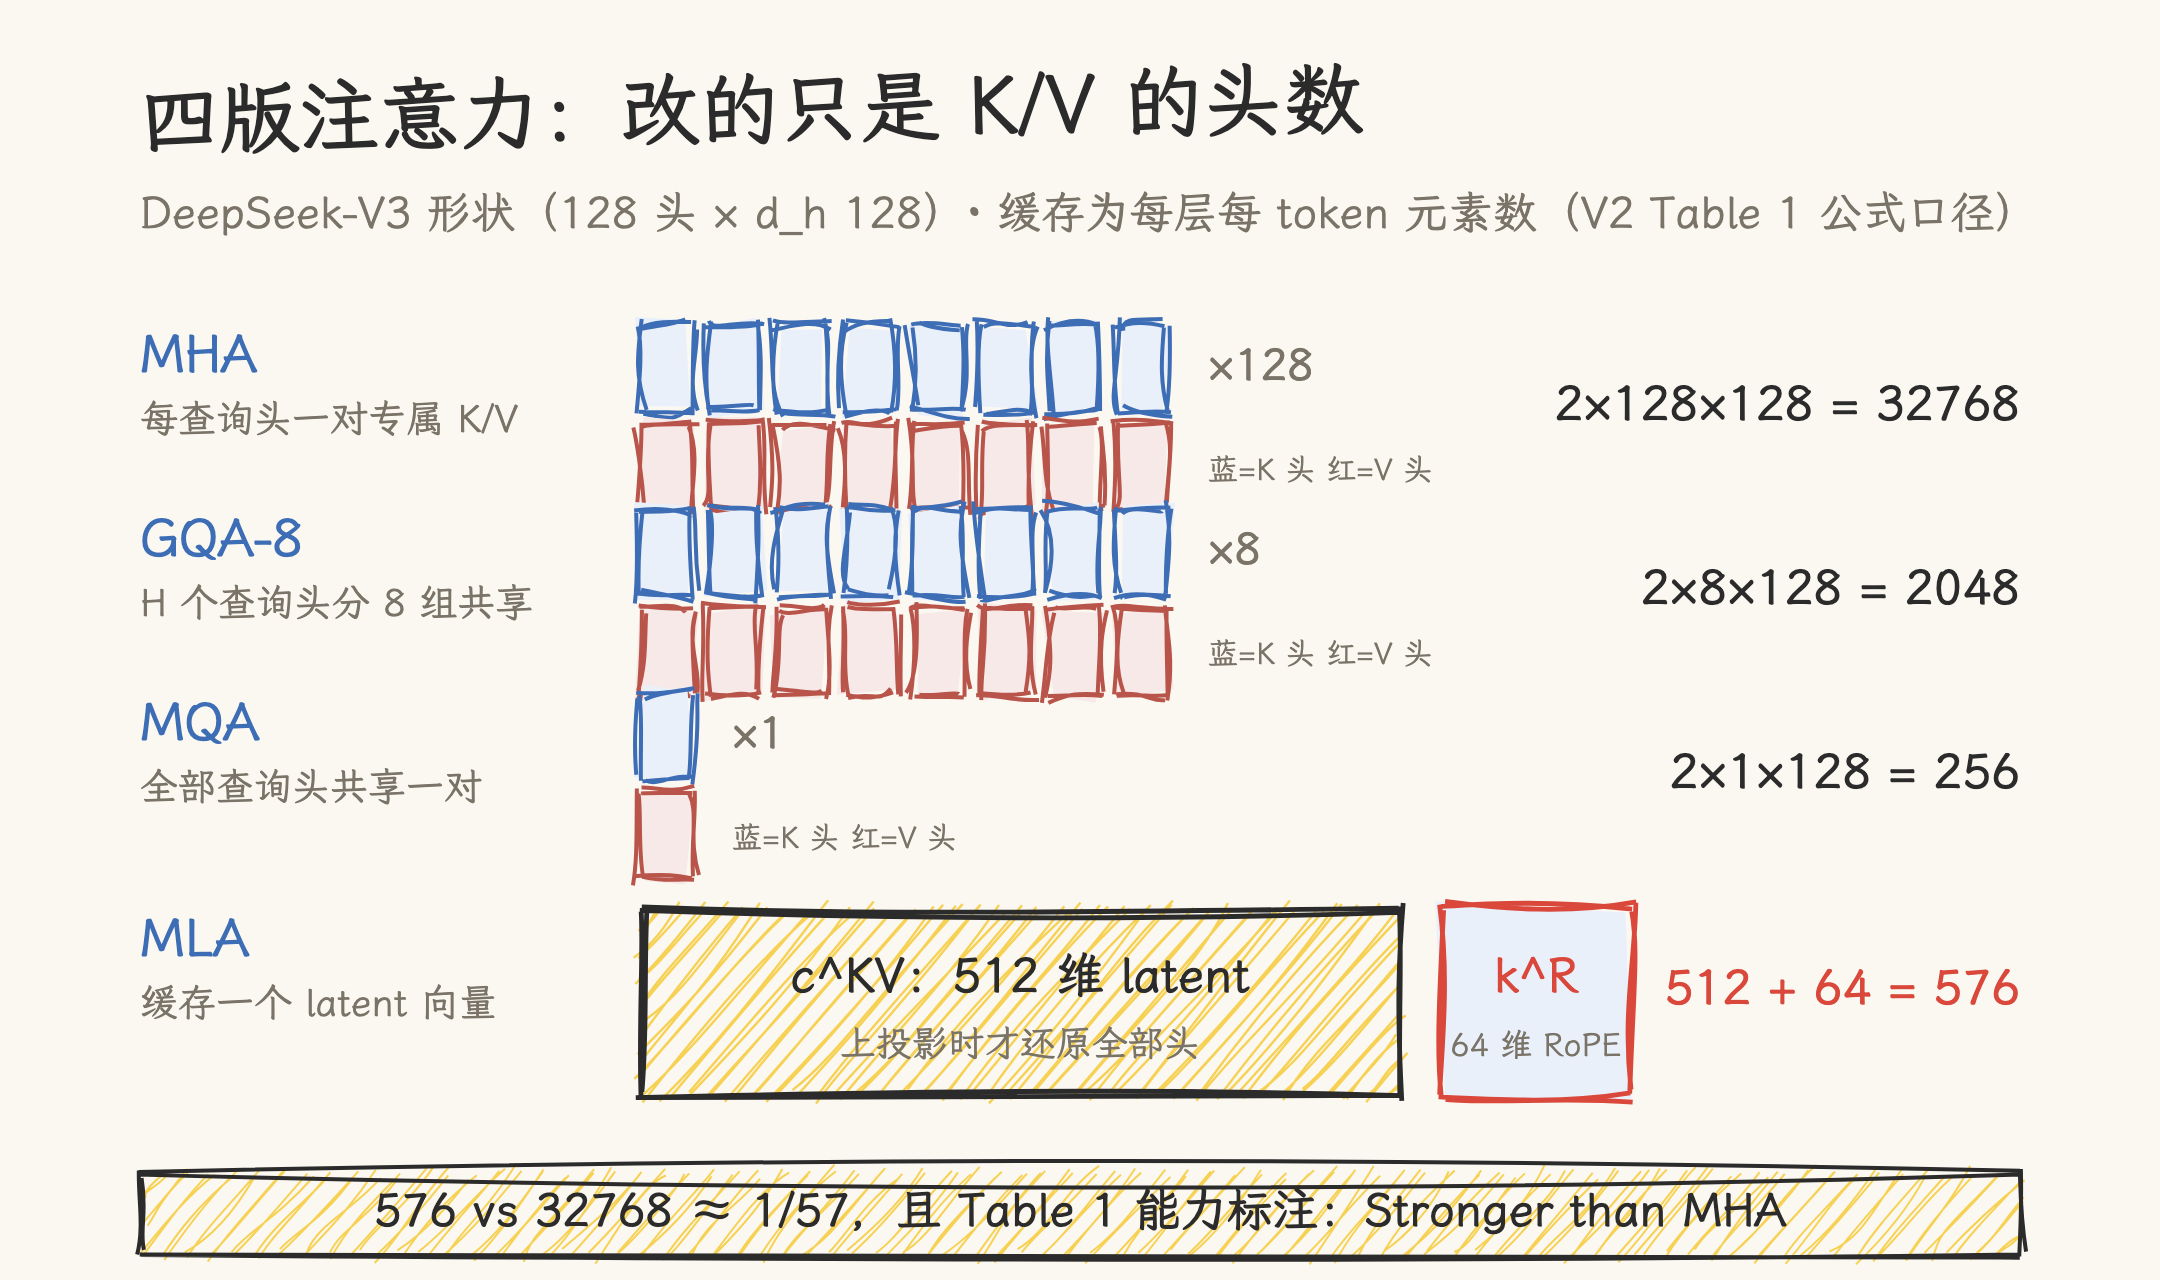
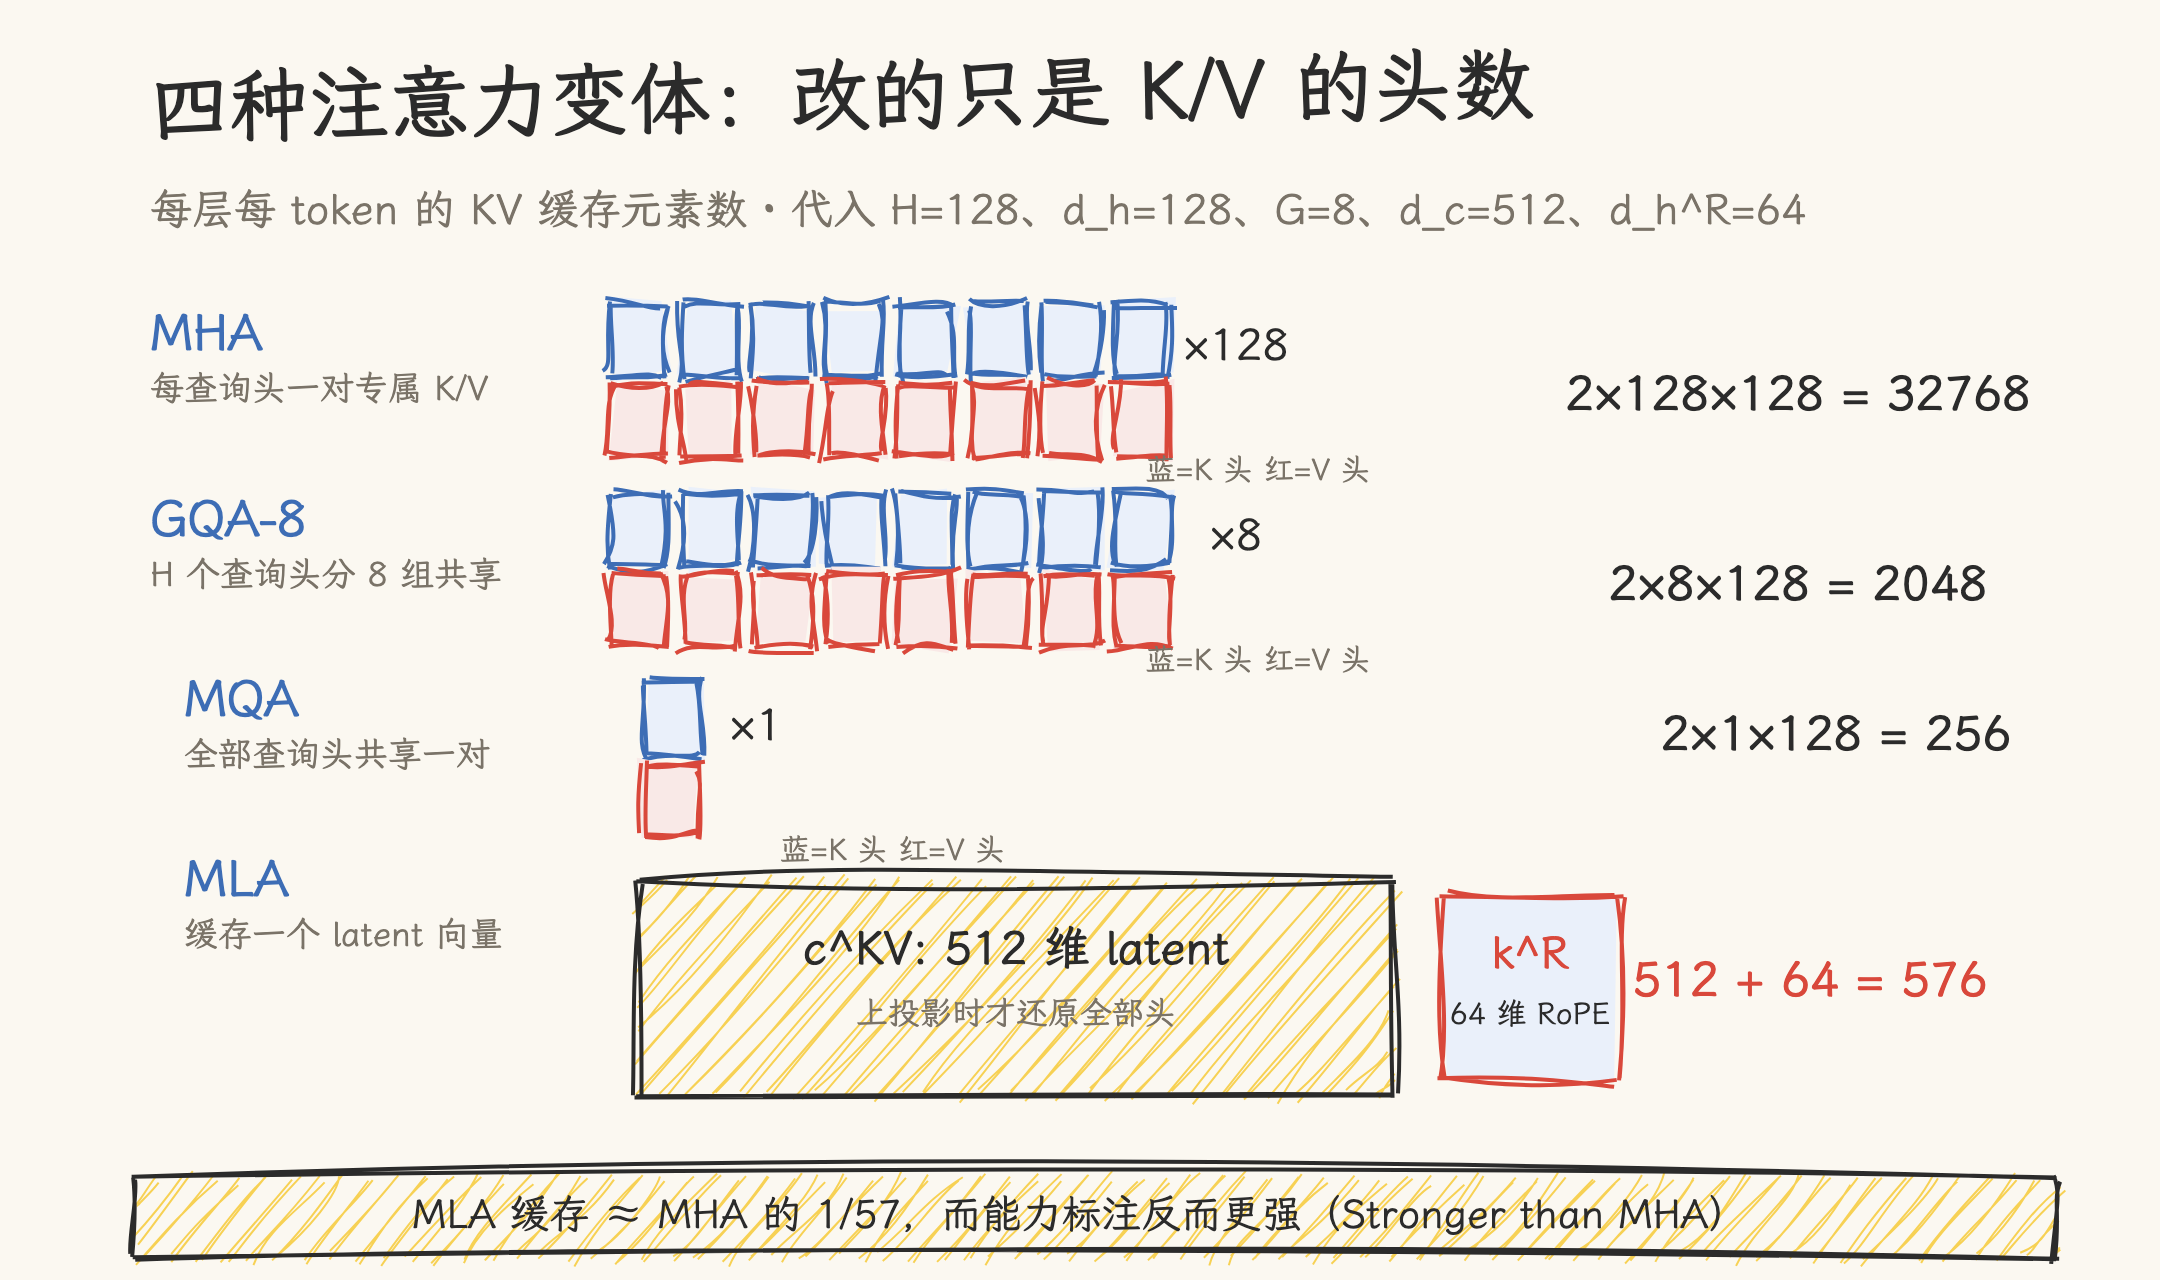
docs(kv_cache): 手搓 MLA 易读性修订与配图重制
- 全文记号转 LaTeX（公式块转 display math，\text{} 下划线规则自检通过）
- 「四版注意力」改「四种注意力变体」，§二 补变体归属（MHA 为 Transformer 原版，MQA/GQA 为通用设计，MLA 是 DeepSeek 的回答），根 README 条目同步
- 三处长句拆分、自问自答铺垫改直陈、拟人记账式甩尾清理
- 图一去除 DeepSeek 品牌改通用形状代入（H=128、d_h=128、G=8、d_c=512、d_h^R=64），图三标题改四种注意力对比；两图按原布局重制并过碰撞检查

diff --git a/README.md b/README.md
@@ -392,7 +392,7 @@ SFT 之后把推理能力推上去要靠 RL，而 RL 的 rollout 由推理引擎
 剖析现代推理系统的底层架构创新，重点解构 Mooncake 等以 KV Cache 为中心的高效 LLM 调度系统设计模式与性能调优策略。
 
 - [手搓 KV Cache：从静态预留到 PagedAttention 的页表](09_inference_system/kv_cache/01_concepts/01_basic/03_hand_roll_kv_cache.md) - 可运行模拟器实测三种显存管理策略：碎片入住失败与 5 倍容量的数字来源。
-- [手搓 MLA：从 MHA 到 weight absorption](09_inference_system/kv_cache/01_concepts/01_basic/07_hand_roll_mla.md) - 四版注意力递进 + 真实权重验证吸收等价（fp32 逐位一致），KV 压缩三口径辨析。
+- [手搓 MLA：从 MHA 到 weight absorption](09_inference_system/kv_cache/01_concepts/01_basic/07_hand_roll_mla.md) - 四种注意力变体递进 + 真实权重验证吸收等价（fp32 逐位一致），KV 压缩三口径辨析。
 - [手搓系列导航](hand_roll_series.md) - 手搓系列 5 篇的阅读顺序与实测产出汇总。
 - [Mooncake 架构详解：以 KV Cache 为中心的高效 LLM 推理系统设计](09_inference_system/kv_cache/02_systems/04_mooncake/01_mooncake_architecture.md) - 新一代推理系统的架构创新与性能优化策略
 - [当 KV Cache 装不进内存：FAST'26 五篇论文给出的五个不同答案](09_inference_system/kv_cache/03_fast26/01_fast26-kv-storage-five-scenarios.md) - FAST'26「AI and LLMs」九篇论文中五篇精读的五象限汇总：端侧/智能体/对话/数据中心/冷启动各自的核心矛盾、招式与数字，共同支点是可复现的 I/O 特征；附 4 篇 Agent 精读报告
